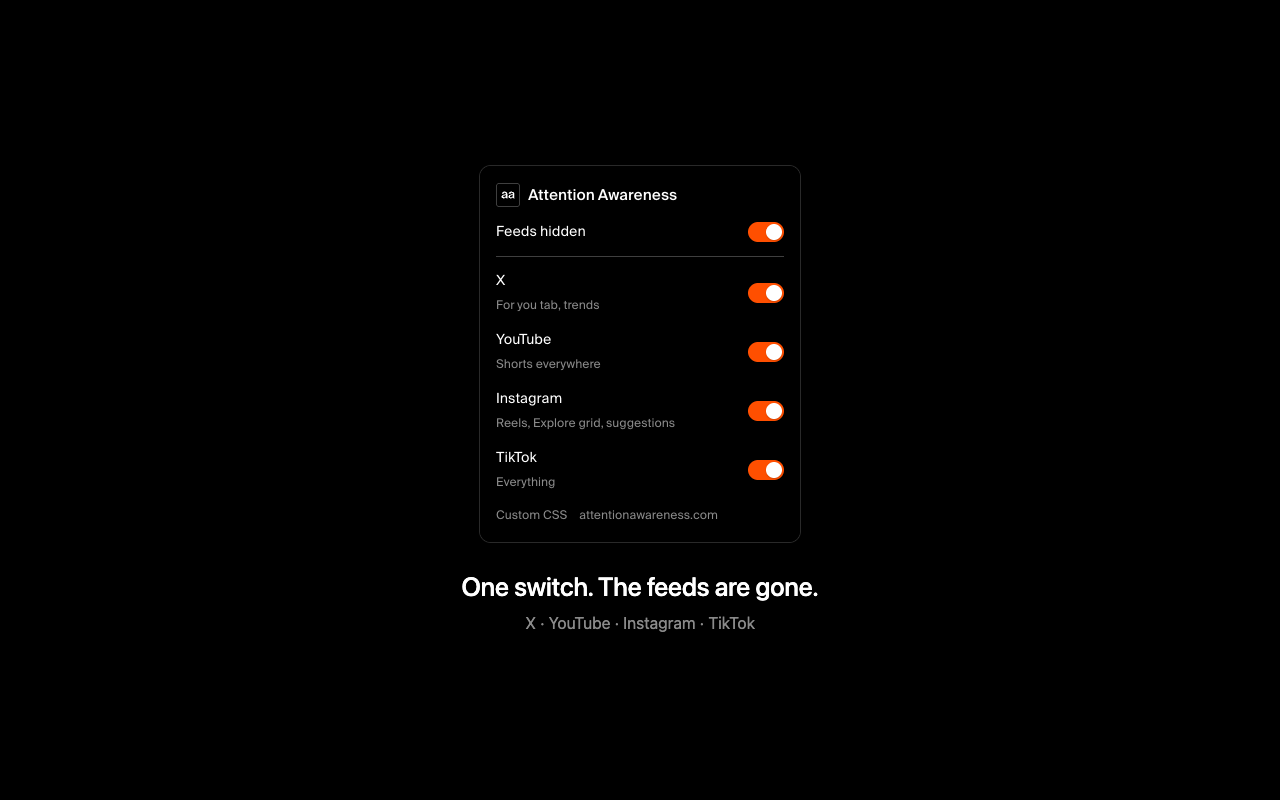
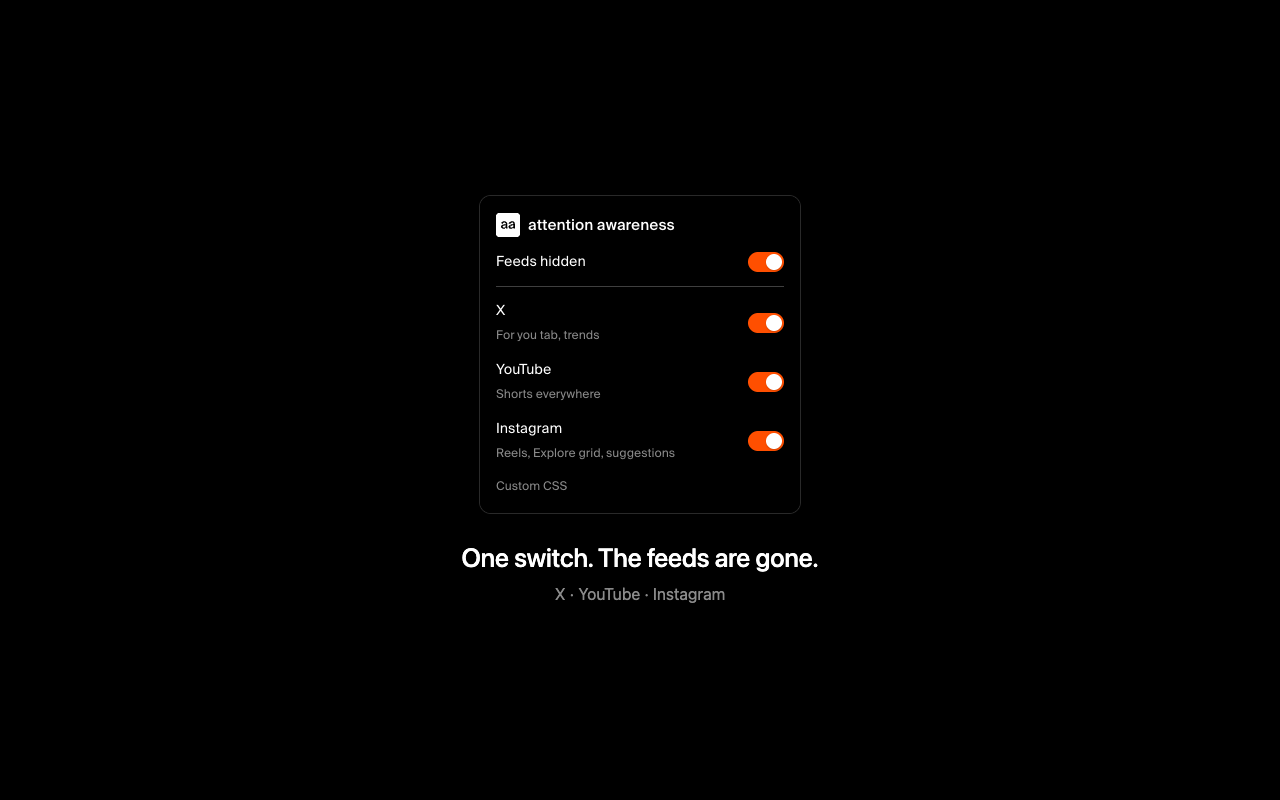
chore(extension): store screenshots and listing for 0.2.1 (#26)
* chore(extension): the store screenshots show the 0.2.1 popup

* docs(extension): the listing summary matches the package

---------

diff --git a/apps/extension/store/listing.md b/apps/extension/store/listing.md
@@ -14,10 +14,10 @@ attention awareness
 
 ### Summary
 
-Max 132 characters. This one is 94.
+Max 132 characters. This one is 91.
 
 ```
-Hides the addictive feeds on YouTube, Instagram and X. Add your own CSS for any other website.
+Hides the addictive feeds on YouTube, Instagram and X. Add your own CSS for other websites.
 ```
 
 ### Description
